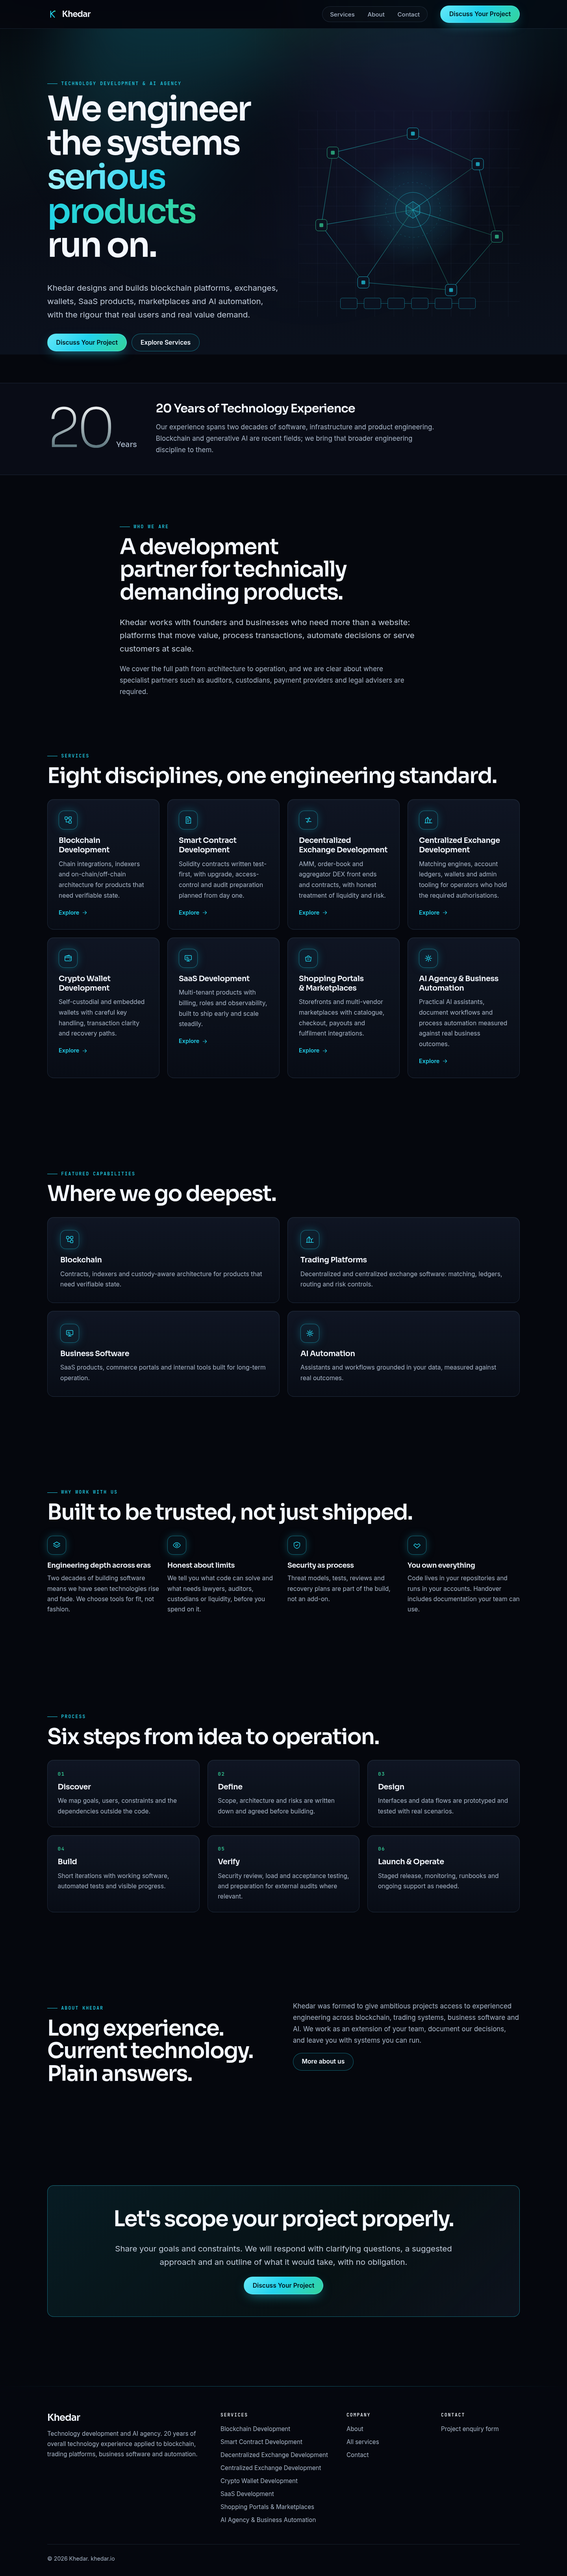
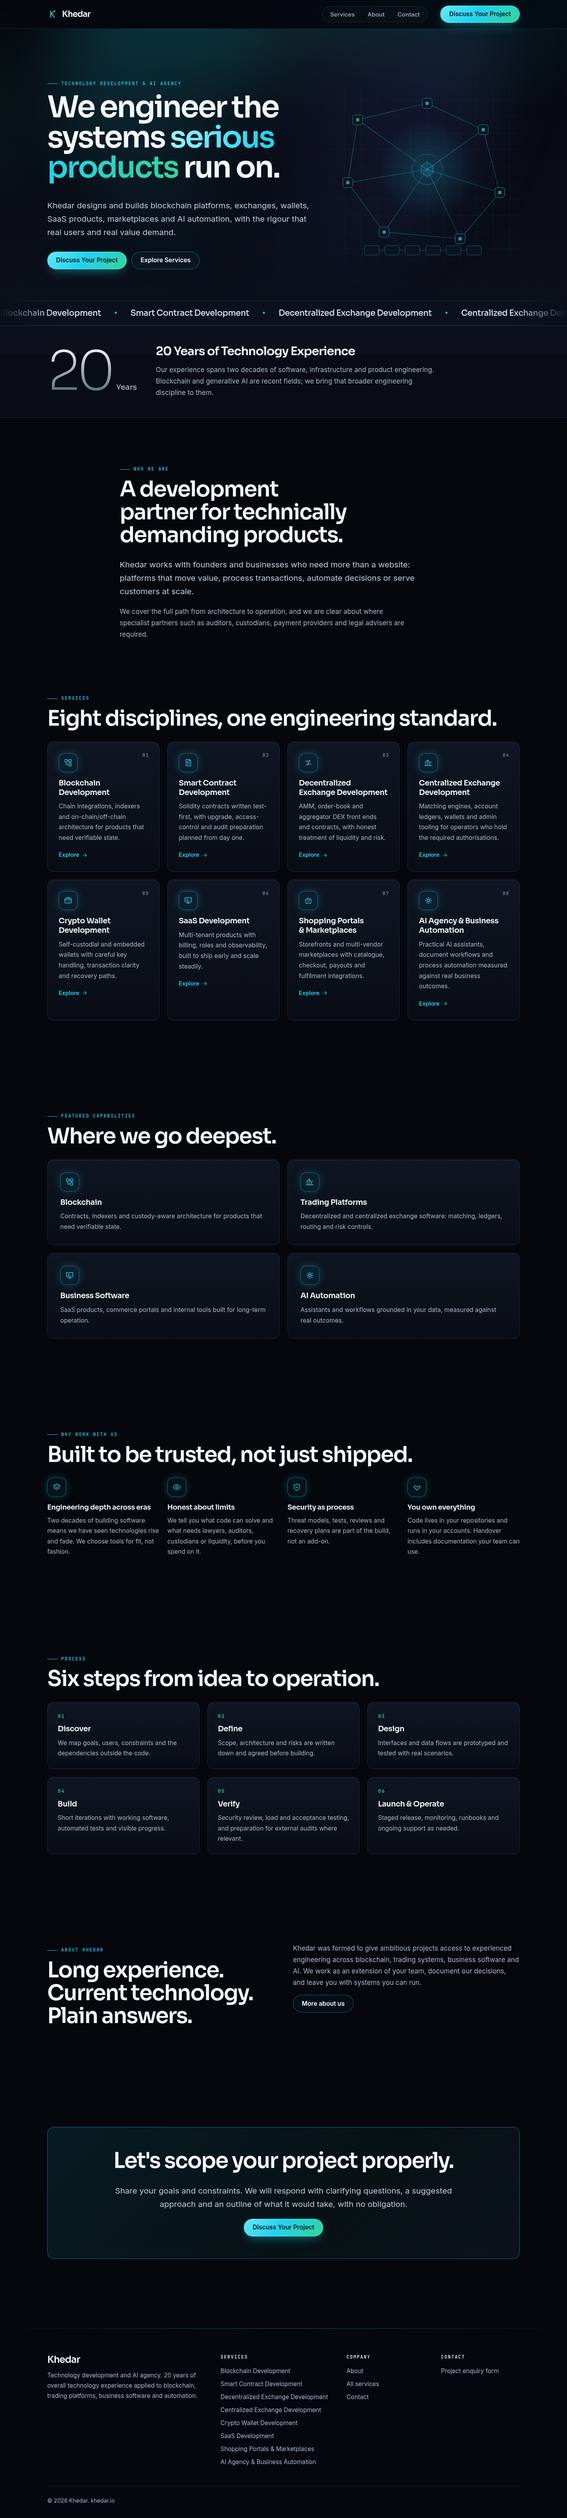
Design v3: 3-line hero, services marquee, page-hero glow, indexed service cards, review shots

diff --git a/src/styles/global.css b/src/styles/global.css
@@ -56,7 +56,9 @@ img,svg{max-width:100%}
 .reveal.in{filter:none}
 .reveal.in,.no-js .reveal{opacity:1;transform:none}
 @media (prefers-reduced-motion:reduce){.reveal{opacity:1;transform:none;filter:none}}
-.page-hero{padding:clamp(3.5rem,8vw,6rem) 0 2rem}
+.page-hero{padding:clamp(3.5rem,8vw,6.5rem) 0 2.5rem;position:relative;isolation:isolate;overflow:clip;border-bottom:1px solid var(--line)}
+.page-hero::before{content:"";position:absolute;z-index:-1;inset:-40% -10% auto 40%;height:140%;background:radial-gradient(closest-side,rgba(34,211,238,.18),rgba(52,211,153,.06) 55%,transparent);filter:blur(40px);pointer-events:none}
+.page-hero h1{max-width:18ch}.page-hero .lead{max-width:60ch}
 .crumbs{font-size:.9rem;margin-bottom:1.5rem}.crumbs a{color:var(--muted)}
 details.acc{border:1px solid var(--line);border-radius:12px;background:var(--glass);margin-bottom:.75rem}
 details.acc summary{cursor:pointer;padding:1.1rem 1.3rem;color:var(--text);font:500 1.05rem var(--display);list-style:none;display:flex;justify-content:space-between;gap:1rem}
